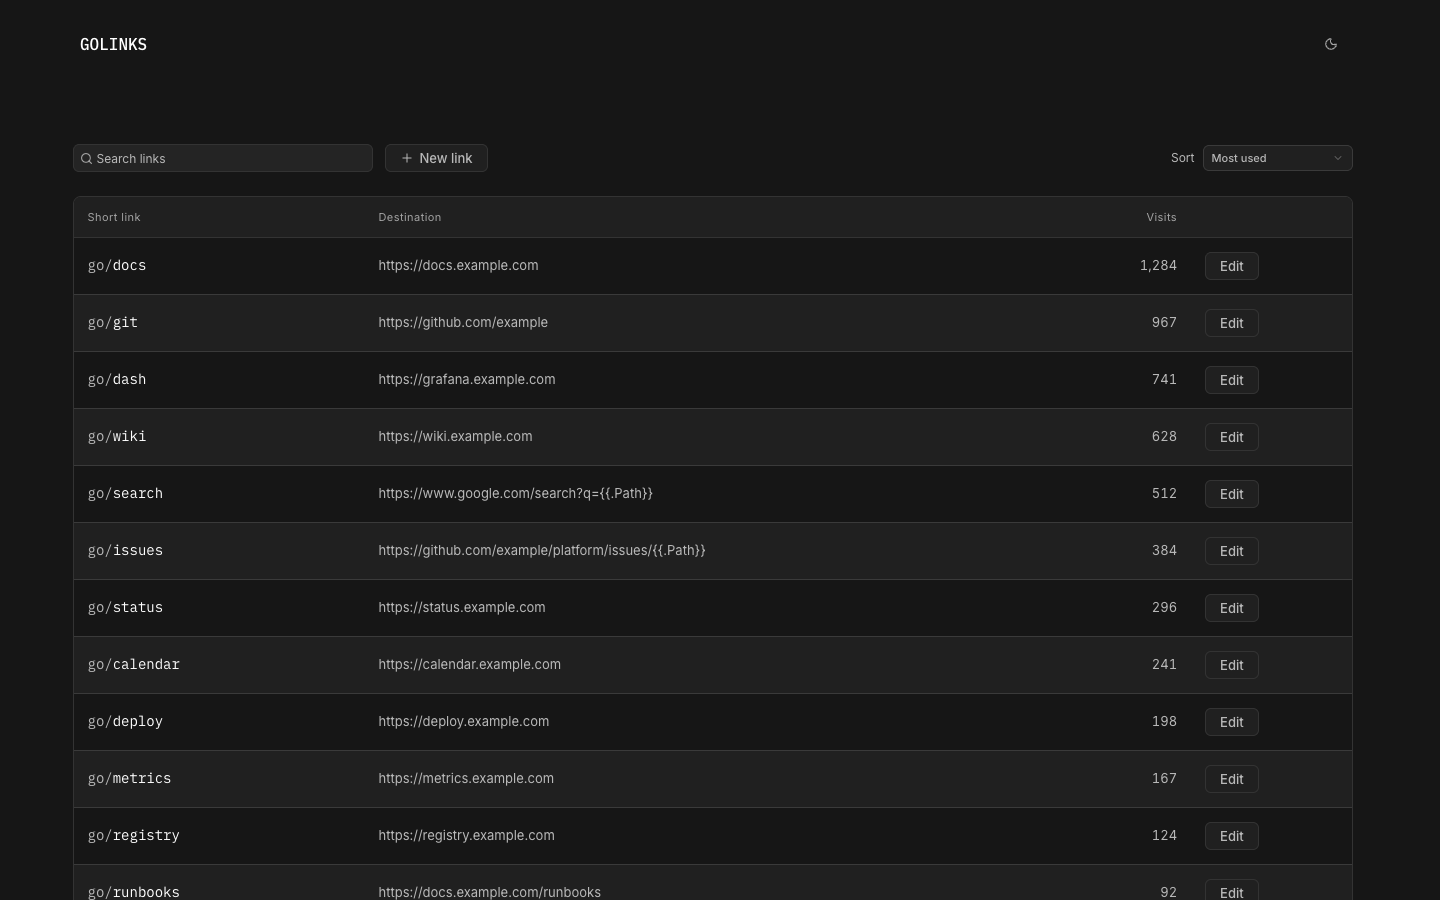
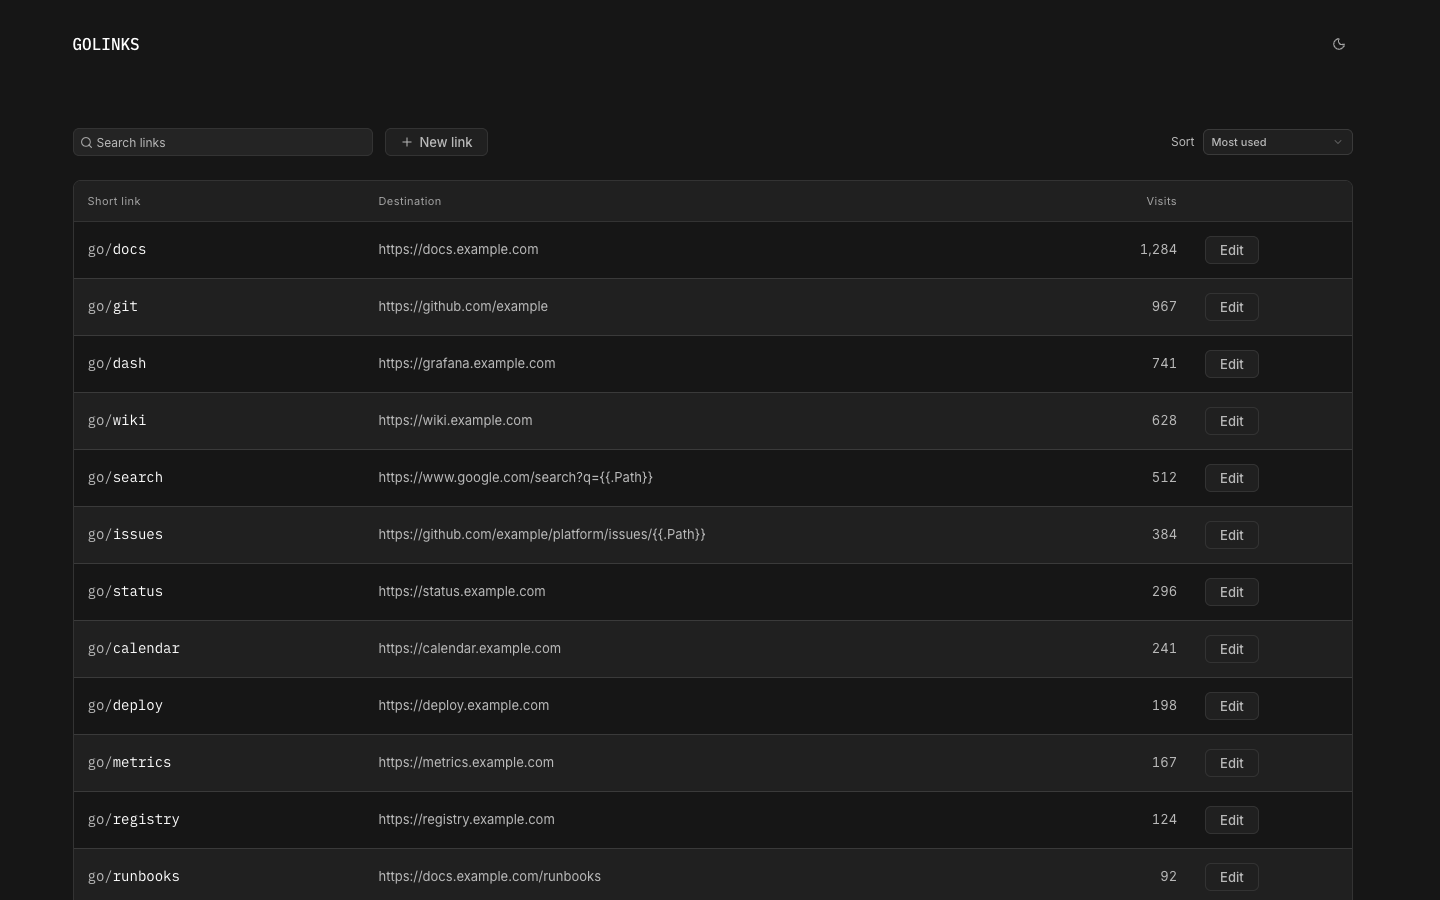
Align header and content spacing across apps

diff --git a/frontend/src/app.css b/frontend/src/app.css
@@ -11,7 +11,7 @@ code, pre { font-family: var(--font-mono); }
 .app-header{position:sticky;top:0;z-index:20;display:flex;align-items:center;justify-content:space-between;gap:32px;height:72px;padding:20px max(24px,calc((100vw - 1080px)/2));border:0;background:var(--background)}
 .app-title{display:flex;align-items:center;gap:14px;color:var(--foreground);text-decoration:none;flex-shrink:0}.app-title h1{font-size:16px;line-height:20px;font-weight:500;letter-spacing:normal;text-transform:uppercase;margin:0}
 .search-field{flex:0 1 300px;min-width:0}.control svg{width:14px;height:14px}
-.directory{margin-top:16px;min-width:0}.directory-toolbar{display:flex;flex-wrap:wrap;align-items:center;justify-content:space-between;gap:12px;margin-bottom:24px;color:var(--muted-foreground);font-size:13px}.sort-label{display:flex;align-items:center;gap:8px;font-size:12px;margin-left:auto}
+.directory{margin-top:0;min-width:0}.directory-toolbar{display:flex;flex-wrap:wrap;align-items:center;justify-content:space-between;gap:12px;margin-bottom:24px;color:var(--muted-foreground);font-size:13px}.sort-label{display:flex;align-items:center;gap:8px;font-size:12px;margin-left:auto}
 .short-link{display:inline-flex;align-items:baseline;min-width:120px;max-width:240px;font-family:var(--font-mono);overflow-wrap:anywhere;text-decoration:none;color:var(--foreground)}.go-prefix{color:var(--muted-foreground);flex-shrink:0}.short-link:hover{text-decoration:underline;text-underline-offset:4px}.destination{display:block;min-width:160px;max-width:600px;overflow-wrap:anywhere}.visits{display:block;text-align:right;font-variant-numeric:tabular-nums}
 
 .empty-state{text-align:center;border:1px dashed var(--border);border-radius:var(--radius)}.empty-state[role="status"]{padding:32px 24px}.app-footer{display:flex;flex-wrap:wrap;align-items:center;gap:24px;margin-top:32px;font-size:11px;color:var(--muted-foreground)}.app-footer a,.footer-action{color:inherit;text-decoration:none;border:0;background:transparent;padding:8px 0;font:inherit}.app-footer a:hover,.footer-action:hover{text-decoration:underline;text-underline-offset:4px}.text-link{font:inherit;color:var(--foreground);background:transparent;border:0;text-decoration:underline;text-underline-offset:4px}
@@ -45,7 +45,7 @@ code, pre { font-family: var(--font-mono); }
 .backup-file:focus-visible { border-color: var(--ring); outline: none; box-shadow: none; }
 
 /* Shared desktop workspace proportions; application behavior stays local. */
-.app-header { position: static; height: 88px; gap: 20px; padding-inline: max(32px, calc((100vw - 1280px)/2)); }
+.app-header { position: static; width: 100%; max-width: 1344px; height: 88px; margin-inline: auto; gap: 20px; padding-inline: 32px; }
 .app-title h1 { font-family: var(--font-mono); }
 .app-shell { max-width: 1344px; margin-inline: auto; min-height: calc(100svh - 88px); padding: 40px 32px 64px; }
 .kit-table-wrapper { border-radius: var(--radius-lg); }
@@ -53,5 +53,6 @@ code, pre { font-family: var(--font-mono); }
 .app-footer { font-size: .75rem; }
 @media (max-width: 640px) {
  .app-header { padding-inline: 16px; }
+ .app-title h1 { font-size: .875rem; }
  .app-shell { padding: 22px 16px 40px; }
 }

diff --git a/DESIGN.md b/DESIGN.md
@@ -28,6 +28,10 @@ preferences respected. Phone layouts must not widen the page.
 
 ## Application Patterns
 
+Use an 88px header and begin the content at 128px on desktop, or 110px at
+640px and below, matching CI View and Homelab Launcher. Align the title and
+content inside the same centered 1344px container.
+
 Keep the compact wordmark header, search/New link/Sort toolbar, and one link
 table. Short names use monospace; destinations use interface text. Preserve the
 initial Most used sort and the optional Name sort. The table may scroll inside
